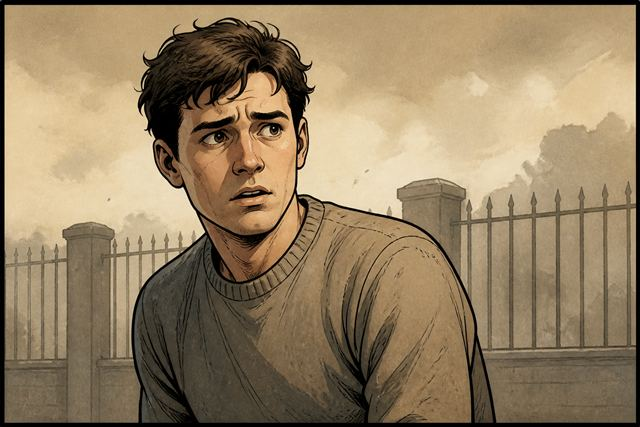
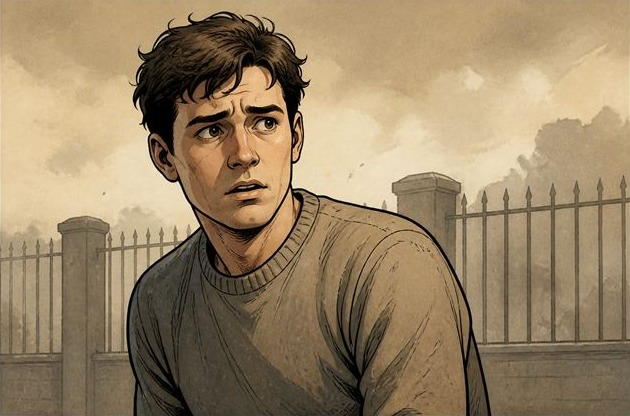
Fix images with black border

diff --git a/index.html b/index.html
@@ -21,7 +21,7 @@
     <link rel="manifest" href="./manifest.webmanifest" />
     <link rel="icon" href="./images/icon-192.png" type="image/png" />
     <link rel="apple-touch-icon" href="./images/icon-192.png" />
-    <link rel="stylesheet" href="./styles.css?v=44" />
+    <link rel="stylesheet" href="./styles.css?v=45" />
   </head>
   <body>
     <svg class="svg-defs" aria-hidden="true" focusable="false">
@@ -114,6 +114,6 @@
         </div>
       </div>
     </div>
-    <script type="module" src="./app.js?v=37"></script>
+    <script type="module" src="./app.js?v=38"></script>
   </body>
 </html>

diff --git a/styles.css b/styles.css
@@ -328,13 +328,14 @@ main {
   background: #1a1410;
   transform: rotateY(180deg);
   -webkit-transform: rotateY(180deg);
+  overflow: hidden;
 }
 
 .portrait {
   position: absolute;
-  inset: 0;
-  width: 100%;
-  height: 100%;
+  inset: -3px;
+  width: calc(100% + 6px);
+  height: calc(100% + 6px);
   object-fit: cover;
   display: block;
   border-radius: 10px;
@@ -372,7 +373,7 @@ main {
 }
 
 .card[data-type="civilian"] .back .word-box {
-  background: #d5bf98;
+  background: #caae7c;
 }
 
 .card[data-type="civilian"] .back .word {

diff --git a/app.js b/app.js
@@ -25,10 +25,10 @@ const ART = {
     "./images/blue-agent-c.jpg",
   ],
   civilian: [
-    "./images/civilian-a.jpg",
-    "./images/civilian-b.jpg",
-    "./images/civilian-c.jpg",
-    "./images/civilian-d.jpg",
+    "./images/civilian-a.jpg?v=2",
+    "./images/civilian-b.jpg?v=2",
+    "./images/civilian-c.jpg?v=2",
+    "./images/civilian-d.jpg?v=2",
   ],
   assassin: ["./images/assassin.jpg"],
 };

diff --git a/sw.js b/sw.js
@@ -1,4 +1,4 @@
-const CACHE = "codenames-v61";
+const CACHE = "codenames-v62";
 const ASSETS = [
   "./",
   "./index.html",
